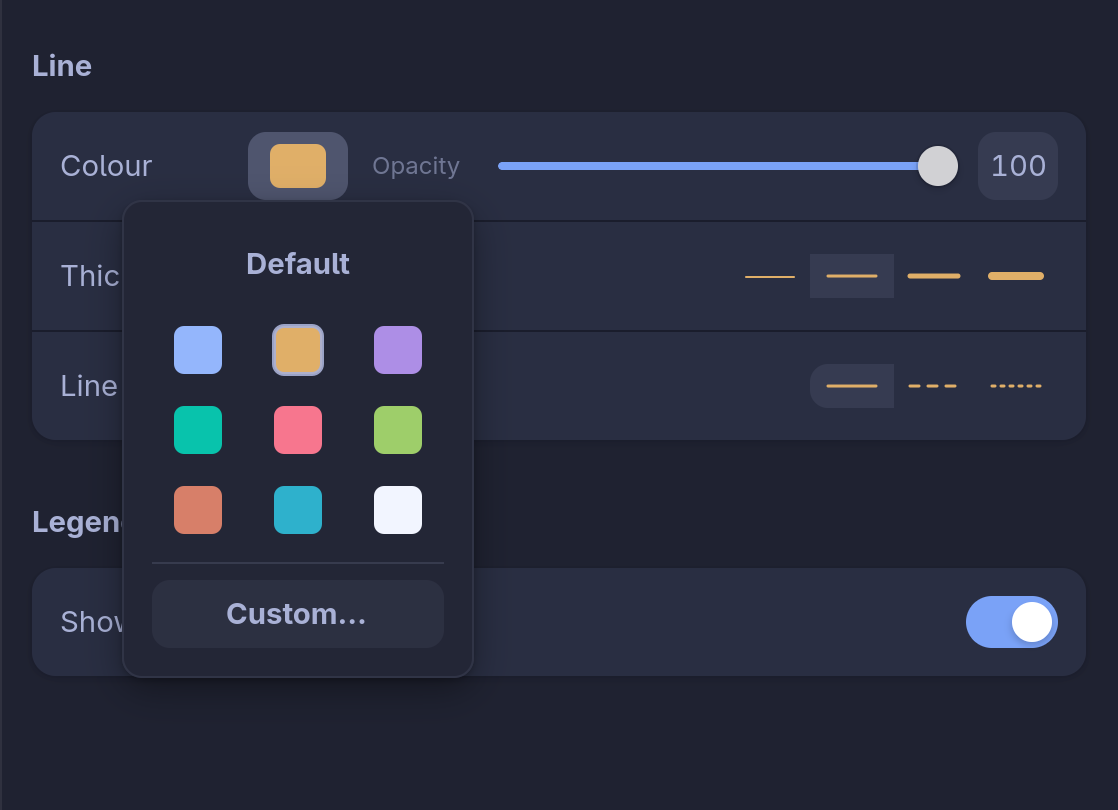
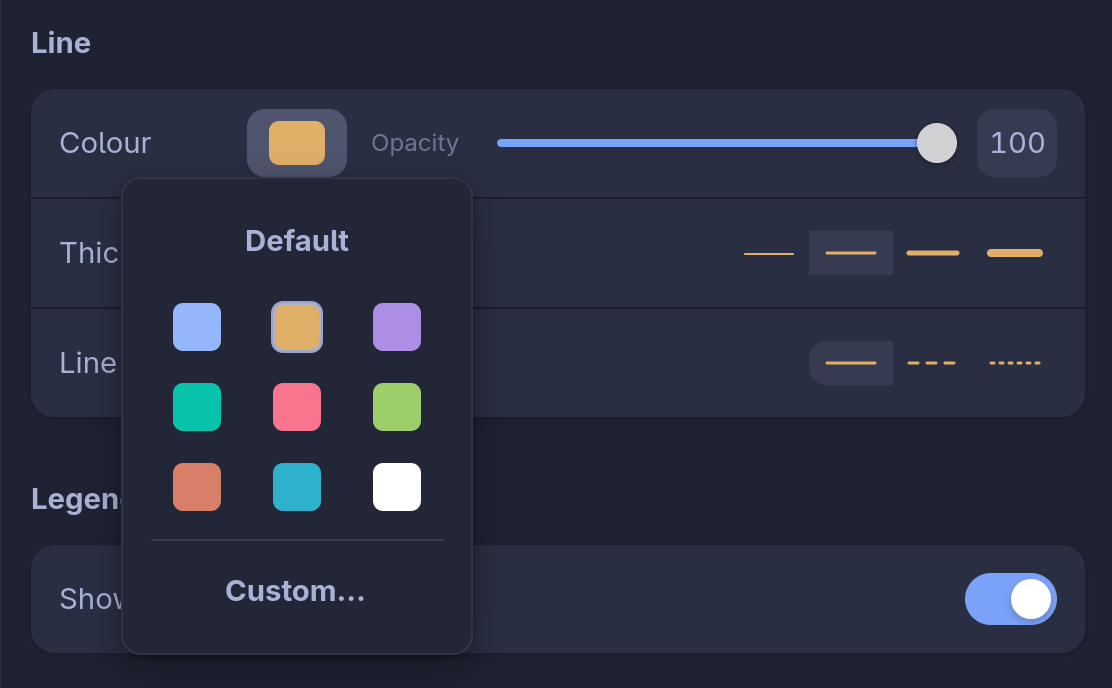
Manual: retake the palette picker with the new Neutral

diff --git a/site/manual/themes.md b/site/manual/themes.md
@@ -8,17 +8,19 @@ nav_order: 25
 A theme is the set of colours the window is drawn in. It includes the palette, the named colours that indicators and drawings use. On an Omarchy desktop the window follows the desktop theme and changes with it.
 
 <!-- regenerate:
-theme: tokyo-night, everforest, catppuccin-latte, gruvbox (one capture each, the desktop theme switched between them)
-window: 2560x1600 @2, $SP/kit/hw
+theme: omarchy:tokyo-night (crates/omacharts-engine/tests/fixtures/omarchy/tokyo-night.toml copied to $HOME/.config/omarchy/themes/tokyo-night/colors.toml)
+window: 2800x1800 @2, bin/headless-window start (fresh session, HOME sandboxed)
 state:
-  omacharts chart set --symbol NVDA --resolution 1D
+  omacharts config set providers '["fake","yahoo"]'; app --provider fake; sign in to the fake feed (Preferences, Data)
+  a chart of ES 1m on the fake feed
   omacharts chart indicator add sma --period 50 --color Amber
-  omacharts chart indicator add ema --period 21 --color Blue
-  omacharts chart indicator add rsi
-  move 1270 790
-  for each theme: $SP/kit/theme THEME; sleep 4
-capture: bin/headless-window cli chart screenshot --output /tmp/theme-THEME.png   (four, joined 2x2 with magick +append/-append, resized to 1600 wide)
-crop: none
+  move 700 450
+  key ctrl+i              # twice: a fresh window swallows its first chord
+  click 579 410          # the SMA 50 row
+  click 569 323          # its Colour swatch
+  move 1300 800
+capture: bin/headless-window shot /tmp/picker.png
+crop: 1112x688+841+503, the Line group and the palette with a margin round both
 -->
 {% include figure.html src="/assets/manual/themes/four-themes.jpg" alt="The same NVDA daily chart under four desktop themes" caption="The same chart under Tokyo Night, Everforest, Catppuccin Latte and Gruvbox." %}
 
